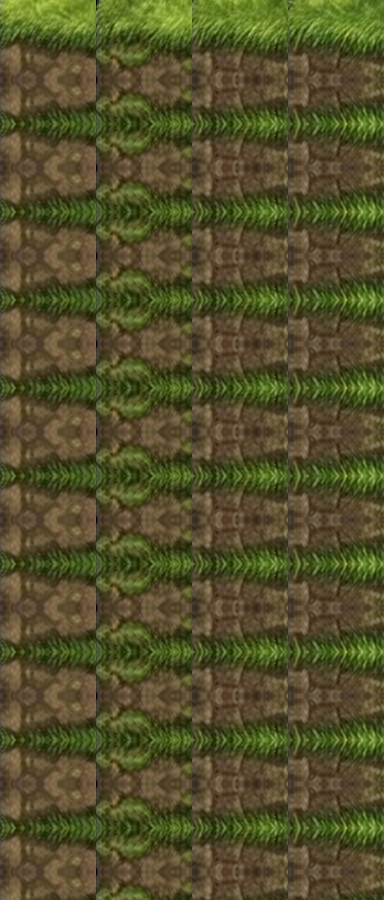
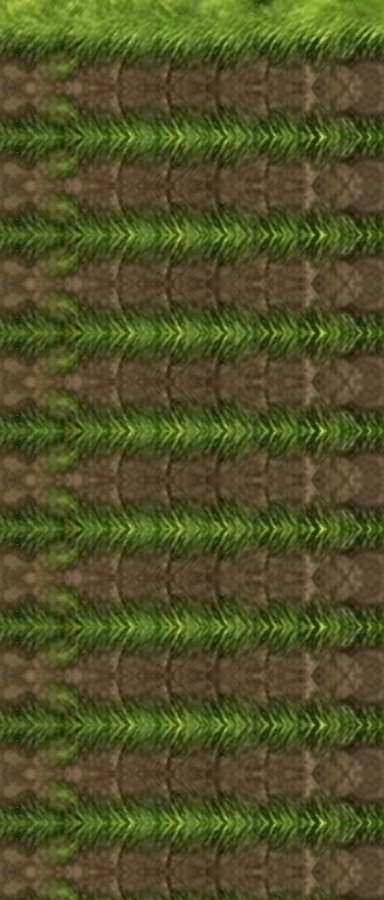
Grass sides: faces blended into one continuous strip, outlines cropped, dirt layer visible
Claude-Session: https://claude.ai/code/session_01UHqCe59nF5EmDm8GvDGD2Y

diff --git a/godot/tools/art/build_art.py b/godot/tools/art/build_art.py
@@ -62,26 +62,34 @@ def build_grass_blocks():
         top = quad(blk, (cx, cy - hh), (cx - hw, cy), (cx, cy + hh), (cx + hw, cy), (96, 96))
         save(top.convert('RGB'), 'tiles', 'blocktop_%02d.png' % k)
         n += 1
-    # side strips: the left and right faces of four plain blocks, side by side (4 tiles = 384 px wide)
+    # side strips: the left and right faces of eight plain blocks, cropped inside their outlines and blended
+    # horizontally (feathered, wrapping every 384 px = 4 tiles) so the cliff runs on with no tile joins
     for kind in ('l', 'r'):
         faces = []
-        for k in (0, 2, 4, 6):
+        for k in (0, 2, 4, 6, 7, 13, 27, 28):
             blk = blocks[k]
             w, h = blk.width, blk.height
             hd = w / 2
-            D = h - hd - 12
+            D = h - hd - 14
+            fw = w / 2 - 4
+            inset = fw * .14  # drop the block's own vertical outline at both ends of the face
             if kind == 'l':
-                ul, ur = (6, hd / 2 + 4), (w / 2 - 4, hd - 2)
+                ul, ur = (4 + inset, hd / 2 + 5 + inset / 2), (w / 2 - inset, hd - 2 - inset / 2 + 1)
             else:
-                ul, ur = (w / 2 + 4, hd - 2), (w - 6, hd / 2 + 4)
+                ul, ur = (w / 2 + inset, hd - 2 - inset / 2 + 1), (w - 4 - inset, hd / 2 + 5 + inset / 2)
             ll, lr = (ul[0], ul[1] + D), (ur[0], ur[1] + D)
-            fh = int(D * 96 / (w / 2 - 10))
-            faces.append(quad(blk, ul, ll, lr, ur, (96, fh)))
+            faces.append(quad(blk, ul, ll, lr, ur, (96, int(D * 96 / (fw - 2 * inset)))))
         fh = min(f.height for f in faces)
-        strip = Image.new('RGBA', (384, fh))
+        acc = np.zeros((fh, 384, 3), np.float32)
+        wsum = np.zeros((fh, 384, 1), np.float32)
+        u = (np.arange(96) + .5) / 96 * 2 - 1
+        wwin = (np.cos(np.pi * u / 2) ** 2).astype(np.float32)[None, :, None]
         for i, f in enumerate(faces):
-            strip.paste(f.crop((0, 0, 96, fh)), (i * 96, 0))
-        # extend downwards by mirroring the lower half, for tall columns
+            a = np.asarray(f.convert('RGB').crop((0, 0, 96, fh))).astype(np.float32)
+            xs = (np.arange(96) + i * 48 - 24) % 384  # 8 faces, 48 px apart, 96 wide: each overlaps its neighbours
+            acc[:, xs] += a * wwin
+            wsum[:, xs] += wwin
+        strip = Image.fromarray((acc / np.maximum(wsum, 1e-3)).clip(0, 255).astype(np.uint8), 'RGB').convert('RGBA')
         tall = Image.new('RGBA', (384, 900))
         tall.paste(strip, (0, 0))
         y, flip = fh, True

diff --git a/godot/README.md b/godot/README.md
@@ -65,7 +65,7 @@ The Throw command lifts a unit (ally, foe or KO body) or field object within `NE
 
 ## Grass blocks
 
-Grass (`g`) has no per-tile pictures: `bake_ground` in `tools/art/build_art.py` blends the 64 block tops (from `art_src/tiles/grass_blocks.jpg`, cut by `build_grass_blocks`) into one seamless 1024px texture, `ground_grass.png`, with smooth noise choosing lawn, tufted or mossy areas and small flower and stone patches. `world.gd` maps that texture by position (rotated grid coordinates, repeat on), so the ground has no tile borders; grass tiles also have no grid line and are drawn 1.5% larger so neighbours overlap. The dirt sides come from four plain blocks (`side_blockgrass_l/r.png`). The texture repeats about every 10.7 tiles. `blocktop_NN.png` are the intermediate cuts.
+Grass (`g`) has no per-tile pictures: `bake_ground` in `tools/art/build_art.py` blends the 64 block tops (from `art_src/tiles/grass_blocks.jpg`, cut by `build_grass_blocks`) into one seamless 1024px texture, `ground_grass.png`, with smooth noise choosing lawn, tufted or mossy areas and small flower and stone patches. `world.gd` maps that texture by position (rotated grid coordinates, repeat on), so the ground has no tile borders; grass tiles also have no grid line and are drawn 1.5% larger so neighbours overlap. The dirt sides (`side_blockgrass_l/r.png`) are eight plain block faces cropped inside their outlines and feathered into each other so the cliff runs on without joins; `v0` in `LOOK` skips the grass lip so the dirt shows. The texture repeats about every 10.7 tiles. `blocktop_NN.png` are the intermediate cuts.
 
 ## Base: Skyhold
 
